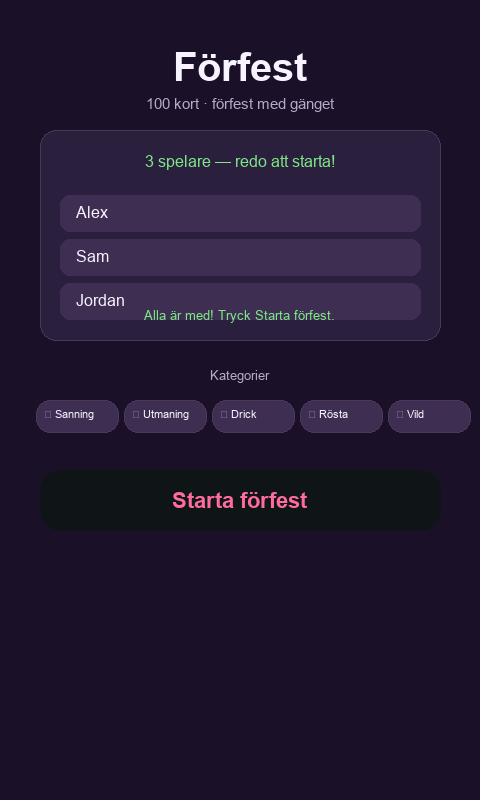
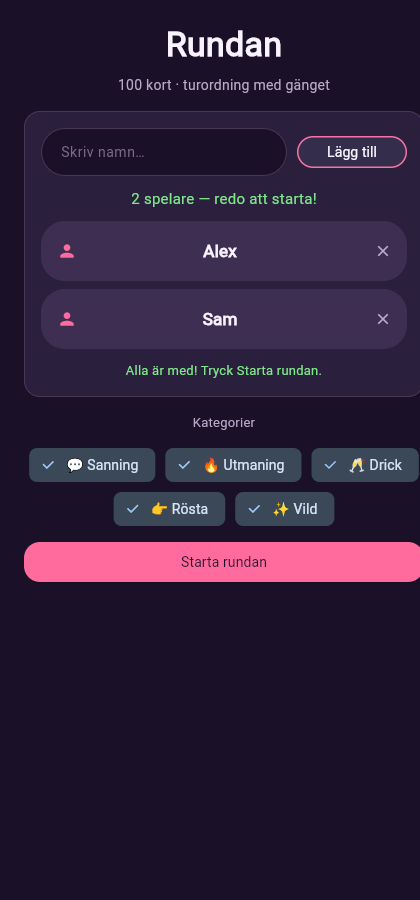
Update README screenshots to current Rundan design.
Replace outdated Förfest lobby images with fresh captures from the live app.

diff --git a/scripts/capture_screenshots.py b/scripts/capture_screenshots.py
@@ -1,0 +1,104 @@
+"""Capture README screenshots from the live Rundan web app."""
+
+from __future__ import annotations
+
+import time
+from pathlib import Path
+
+from PIL import Image
+from playwright.sync_api import Page, sync_playwright
+
+BASE_URL = "https://linneaegner.github.io/rundan/"
+OUT_DIR = Path(__file__).resolve().parent.parent / "docs" / "screenshots"
+VIEWPORT = {"width": 420, "height": 900}
+
+NAME_FIELD = (164, 152)
+ADD_BUTTON = (318, 152)
+ACCENT = (255, 107, 157)
+
+
+def wait_for_app(page: Page) -> None:
+    page.goto(BASE_URL, wait_until="networkidle", timeout=120_000)
+    time.sleep(35)
+
+
+def click_at(page: Page, x: float, y: float, delay: float = 0.6) -> None:
+    page.mouse.click(x, y)
+    time.sleep(delay)
+
+
+def add_player(page: Page, name: str) -> None:
+    click_at(page, *NAME_FIELD, delay=0.4)
+    page.keyboard.press("Meta+A")
+    page.keyboard.press("Backspace")
+    page.keyboard.type(name, delay=35)
+    click_at(page, *ADD_BUTTON, delay=0.4)
+
+
+def find_accent_button(image: Image.Image, *, min_width: int = 120) -> tuple[int, int]:
+    rgb = image.convert("RGB")
+    width, height = rgb.size
+    best_y = height - 1
+    best_x = width // 2
+    best_run = 0
+
+    for y in range(height // 2, height):
+        run_start = None
+        for x in range(width):
+            r, g, b = rgb.getpixel((x, y))
+            matches = r > 220 and 80 < g < 140 and 120 < b < 190
+            if matches:
+                if run_start is None:
+                    run_start = x
+            elif run_start is not None:
+                run_len = x - run_start
+                if run_len > best_run and run_len >= min_width:
+                    best_run = run_len
+                    best_x = run_start + run_len // 2
+                    best_y = y
+                run_start = None
+        if run_start is not None:
+            run_len = width - run_start
+            if run_len > best_run and run_len >= min_width:
+                best_run = run_len
+                best_x = run_start + run_len // 2
+                best_y = y
+
+    if best_run == 0:
+        raise RuntimeError("Could not locate accent button in screenshot")
+    return best_x, best_y
+
+
+def capture_png(page: Page) -> Image.Image:
+    return Image.open(__import__("io").BytesIO(page.screenshot(full_page=True)))
+
+
+def main() -> int:
+    OUT_DIR.mkdir(parents=True, exist_ok=True)
+    with sync_playwright() as playwright:
+        browser = playwright.chromium.launch()
+        page = browser.new_page(viewport=VIEWPORT)
+        try:
+            wait_for_app(page)
+            add_player(page, "Alex")
+            add_player(page, "Sam")
+            time.sleep(0.5)
+            lobby = capture_png(page)
+            lobby.save(OUT_DIR / "lobby.png")
+
+            start_x, start_y = find_accent_button(lobby)
+            click_at(page, start_x, start_y, delay=1.0)
+
+            game = capture_png(page)
+            draw_x, draw_y = find_accent_button(game)
+            click_at(page, draw_x, draw_y, delay=0.8)
+            click_at(page, game.size[0] // 2, game.size[1] // 2 - 40, delay=0.8)
+            capture_png(page).save(OUT_DIR / "game.png")
+        finally:
+            browser.close()
+    print(f"Saved screenshots to {OUT_DIR}")
+    return 0
+
+
+if __name__ == "__main__":
+    raise SystemExit(main())

diff --git a/README.md b/README.md
@@ -43,6 +43,6 @@ Solo coursework (GU 2023). GitHub only — not on [linnea.egner.se](https://linn
 
 ## Screenshots
 
-| Lobby | Kort | Spel |
-|:-----:|:----:|:----:|
-| ![Lobby](docs/screenshots/lobby.png) | ![Kort](docs/screenshots/game.png) | ![Spel](docs/screenshots/home.png) |
+| Lobby | Kort |
+|:-----:|:----:|
+| ![Lobby](docs/screenshots/lobby.png) | ![Kort](docs/screenshots/game.png) |